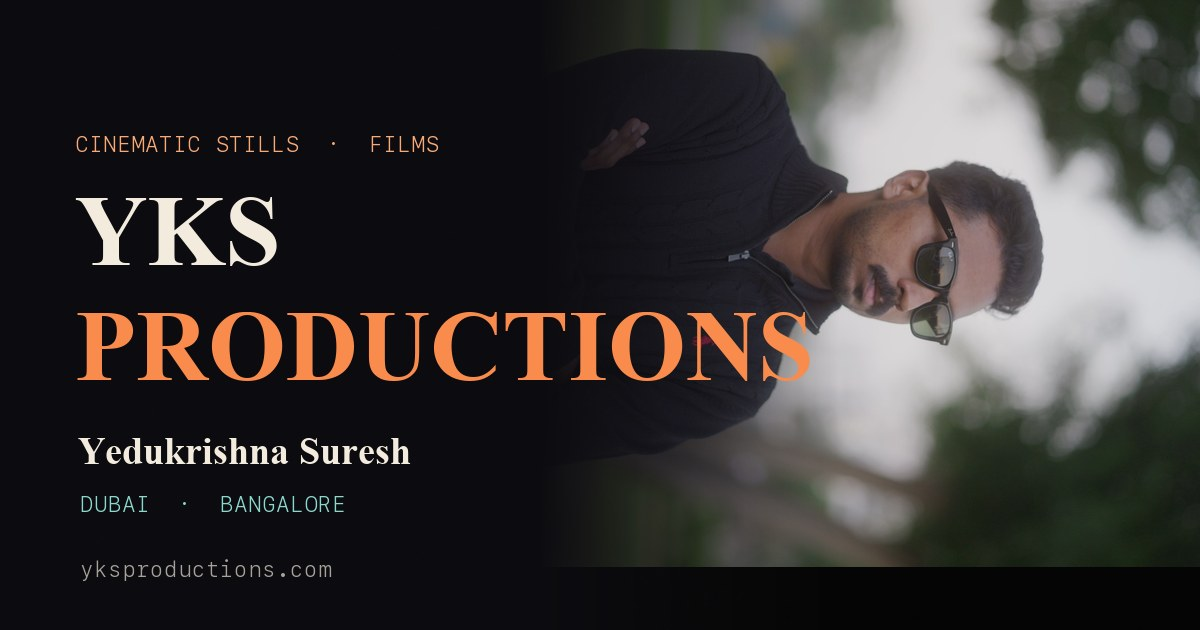
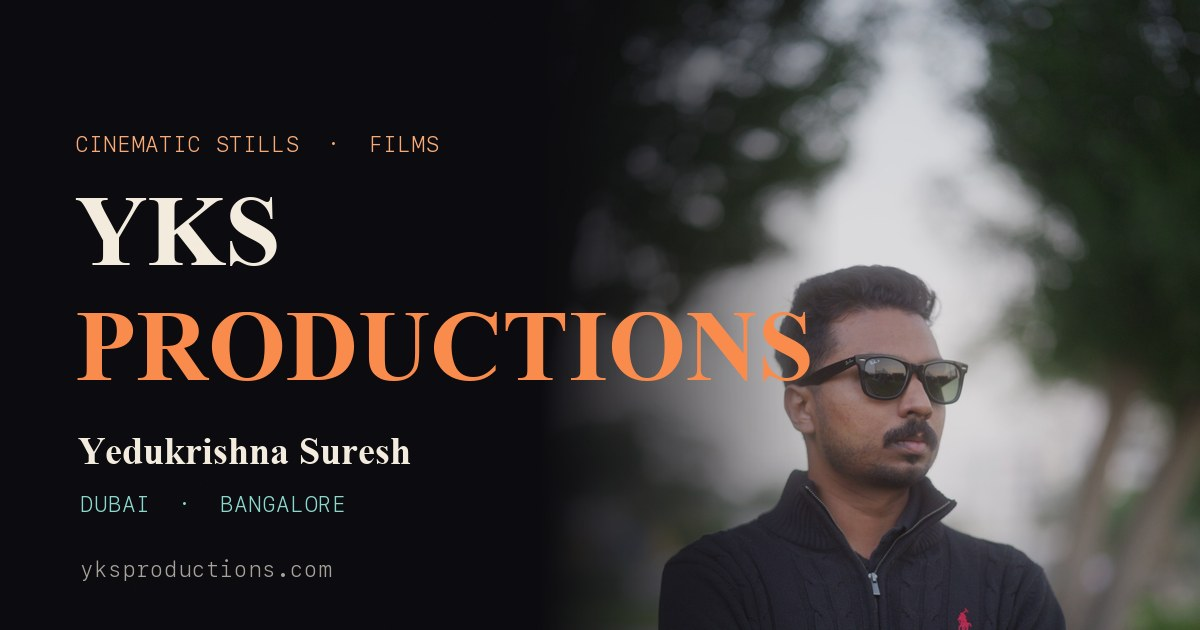
Fix OG thumbnail — apply EXIF transpose so portrait isn't rotated 90°

diff --git a/index.html b/index.html
@@ -12,7 +12,7 @@
 <meta property="og:title" content="YKS Productions" />
 <meta property="og:description" content="Cinematic stills & films" />
 <meta property="og:url" content="https://yksproductions.com" />
-<meta property="og:image" content="https://yksproductions.com/assets/og-cover.jpg?v=1" />
+<meta property="og:image" content="https://yksproductions.com/assets/og-cover.jpg?v=2" />
 <meta property="og:image:width" content="1200" />
 <meta property="og:image:height" content="630" />
 <meta property="og:image:type" content="image/jpeg" />
@@ -20,7 +20,7 @@
 <meta name="twitter:card" content="summary_large_image" />
 <meta name="twitter:title" content="YKS Productions" />
 <meta name="twitter:description" content="Cinematic stills & films" />
-<meta name="twitter:image" content="https://yksproductions.com/assets/og-cover.jpg?v=1" />
+<meta name="twitter:image" content="https://yksproductions.com/assets/og-cover.jpg?v=2" />
 <link rel="icon" type="image/jpeg" href="assets/og-cover.jpg" />
 
 <link rel="preconnect" href="https://fonts.googleapis.com" />
